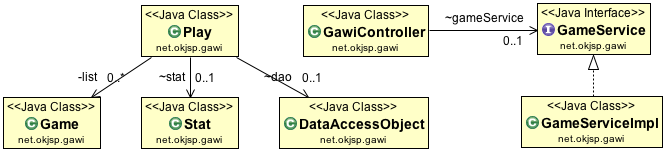
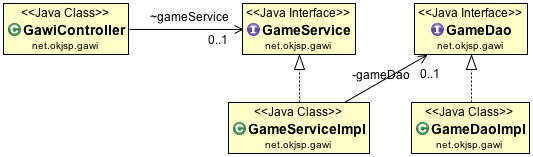
: 20140827_DAO생성 / Modify index.jsp
Task-Url:

diff --git a/okdevtv_spring/okspring/src/main/java/net/okjsp/gawi/GameDaoImpl.java b/okdevtv_spring/okspring/src/main/java/net/okjsp/gawi/GameDaoImpl.java
@@ -1,0 +1,46 @@
+package net.okjsp.gawi;
+
+import java.io.IOException;
+import java.io.InputStream;
+import java.util.Date;
+
+import org.apache.ibatis.io.Resources;
+import org.apache.ibatis.session.SqlSession;
+import org.apache.ibatis.session.SqlSessionFactory;
+import org.apache.ibatis.session.SqlSessionFactoryBuilder;
+import org.springframework.stereotype.Repository;
+
+@Repository
+public class GameDaoImpl implements GameDao {
+  
+  private static SqlSessionFactory sqlSessionFactory;
+  
+  static {
+    String resource = "net/okjsp/gawi/mybatis-config.xml";
+    InputStream inputStream;
+    try {
+      inputStream = Resources.getResourceAsStream(resource);
+      sqlSessionFactory = new SqlSessionFactoryBuilder()
+          .build(inputStream);
+    } catch (IOException e) {
+      e.printStackTrace();
+    }
+  }
+
+  @Override
+  public int save(int choice, int computerChoice, String judgement) {
+    Date datetime = new Date();
+    Game game = new Game(choice, computerChoice, judgement, datetime);
+    SqlSession session = sqlSessionFactory.openSession();
+    try {
+      GameMapper mapper = session.getMapper(GameMapper.class);
+      mapper.insertGame(game);
+    } finally {
+      session.commit();
+      session.close();
+    }
+    return 0;
+    //loadStat();
+  }
+
+}

diff --git a/okdevtv_spring/okspring/src/main/java/net/okjsp/gawi/GameServiceImpl.java b/okdevtv_spring/okspring/src/main/java/net/okjsp/gawi/GameServiceImpl.java
@@ -1,18 +1,26 @@
 package net.okjsp.gawi;
 
+import org.springframework.beans.factory.annotation.Autowired;
 import org.springframework.stereotype.Service;
 
 //서비스로 지정한 구현클라스가 Warired 처리가 됩니다.
 //동시 선언하게 되면 Injection of autowired dependencies failed; nested exception 발생함.
 @Service
 public class GameServiceImpl implements GameService {
-
+  
+  @Autowired
+  private GameDao gameDao;
+  
   public Play play(Game game) {
     Play play = new Play();
     
     game.setComputerChoice(play.getComputerChoice());
     game.setJudgement(play.judge(game.getChoice(), game.getComputerChoice()));
-    play.save(game.getChoice(), game.getComputerChoice(), game.getJudgement());
+    gameDao.save(game.getChoice(), game.getComputerChoice(), game.getJudgement());
+    
+    //Save에 있던 로직인데 여기로 이동처리함
+    play.loadStat();
+    
     return play;
   }
 

diff --git a/okdevtv_spring/okspring/src/main/java/net/okjsp/gawi/GameDao.java b/okdevtv_spring/okspring/src/main/java/net/okjsp/gawi/GameDao.java
@@ -1,0 +1,7 @@
+package net.okjsp.gawi;
+
+public interface GameDao {
+
+  int save(int choice, int computerChoice, String judgement);
+
+}
